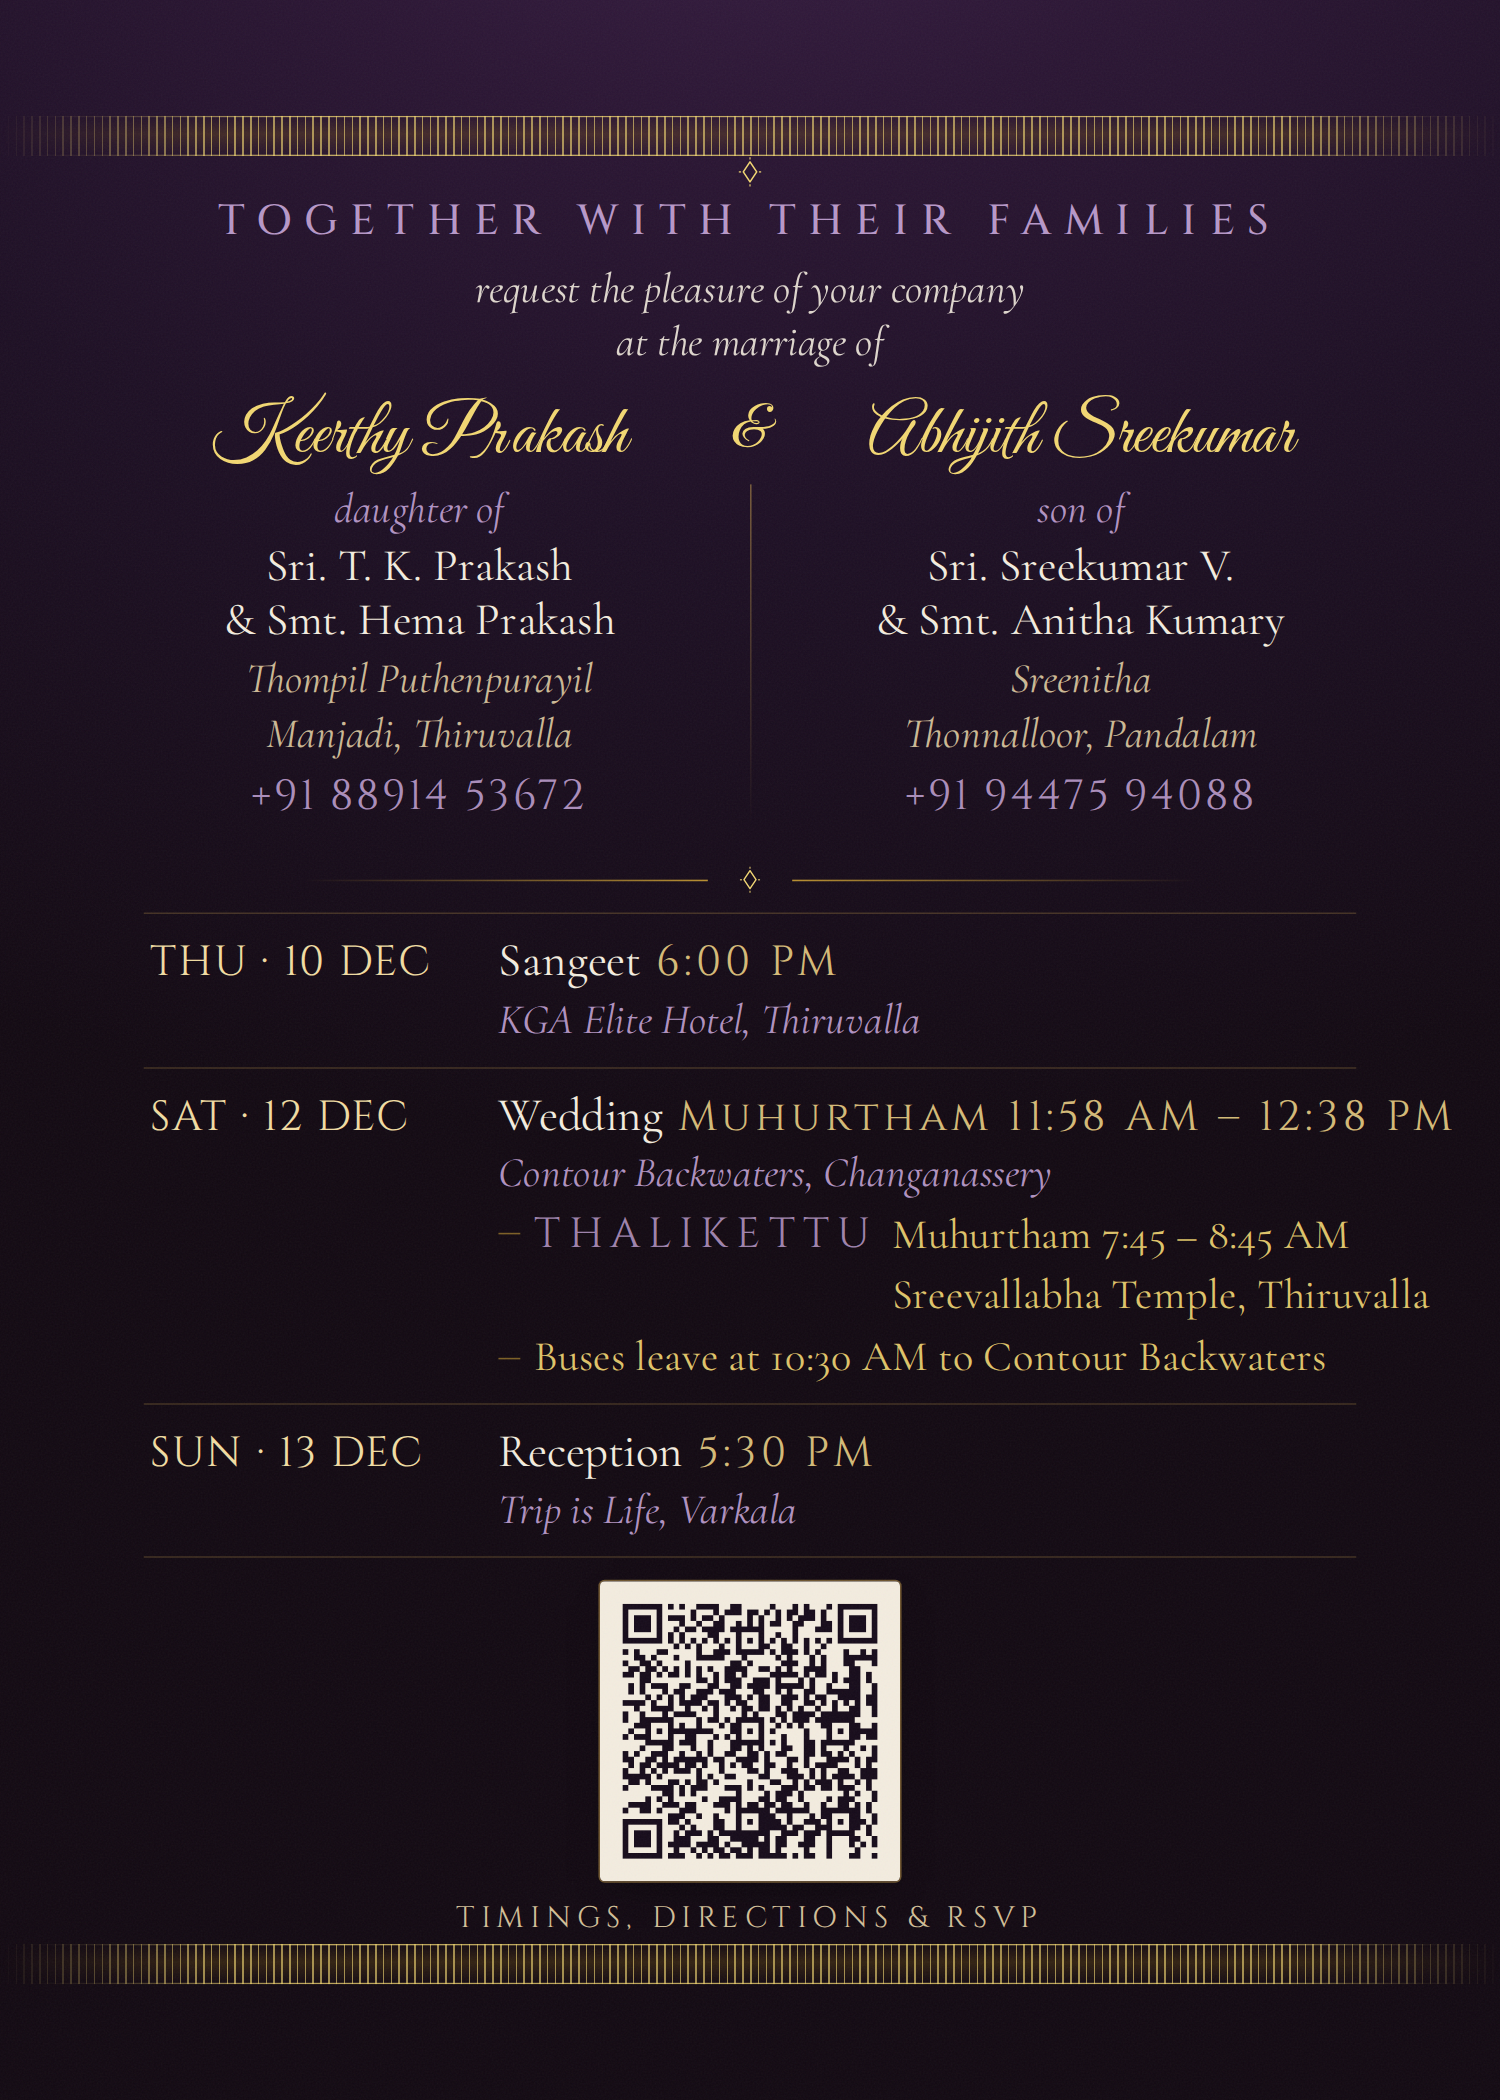
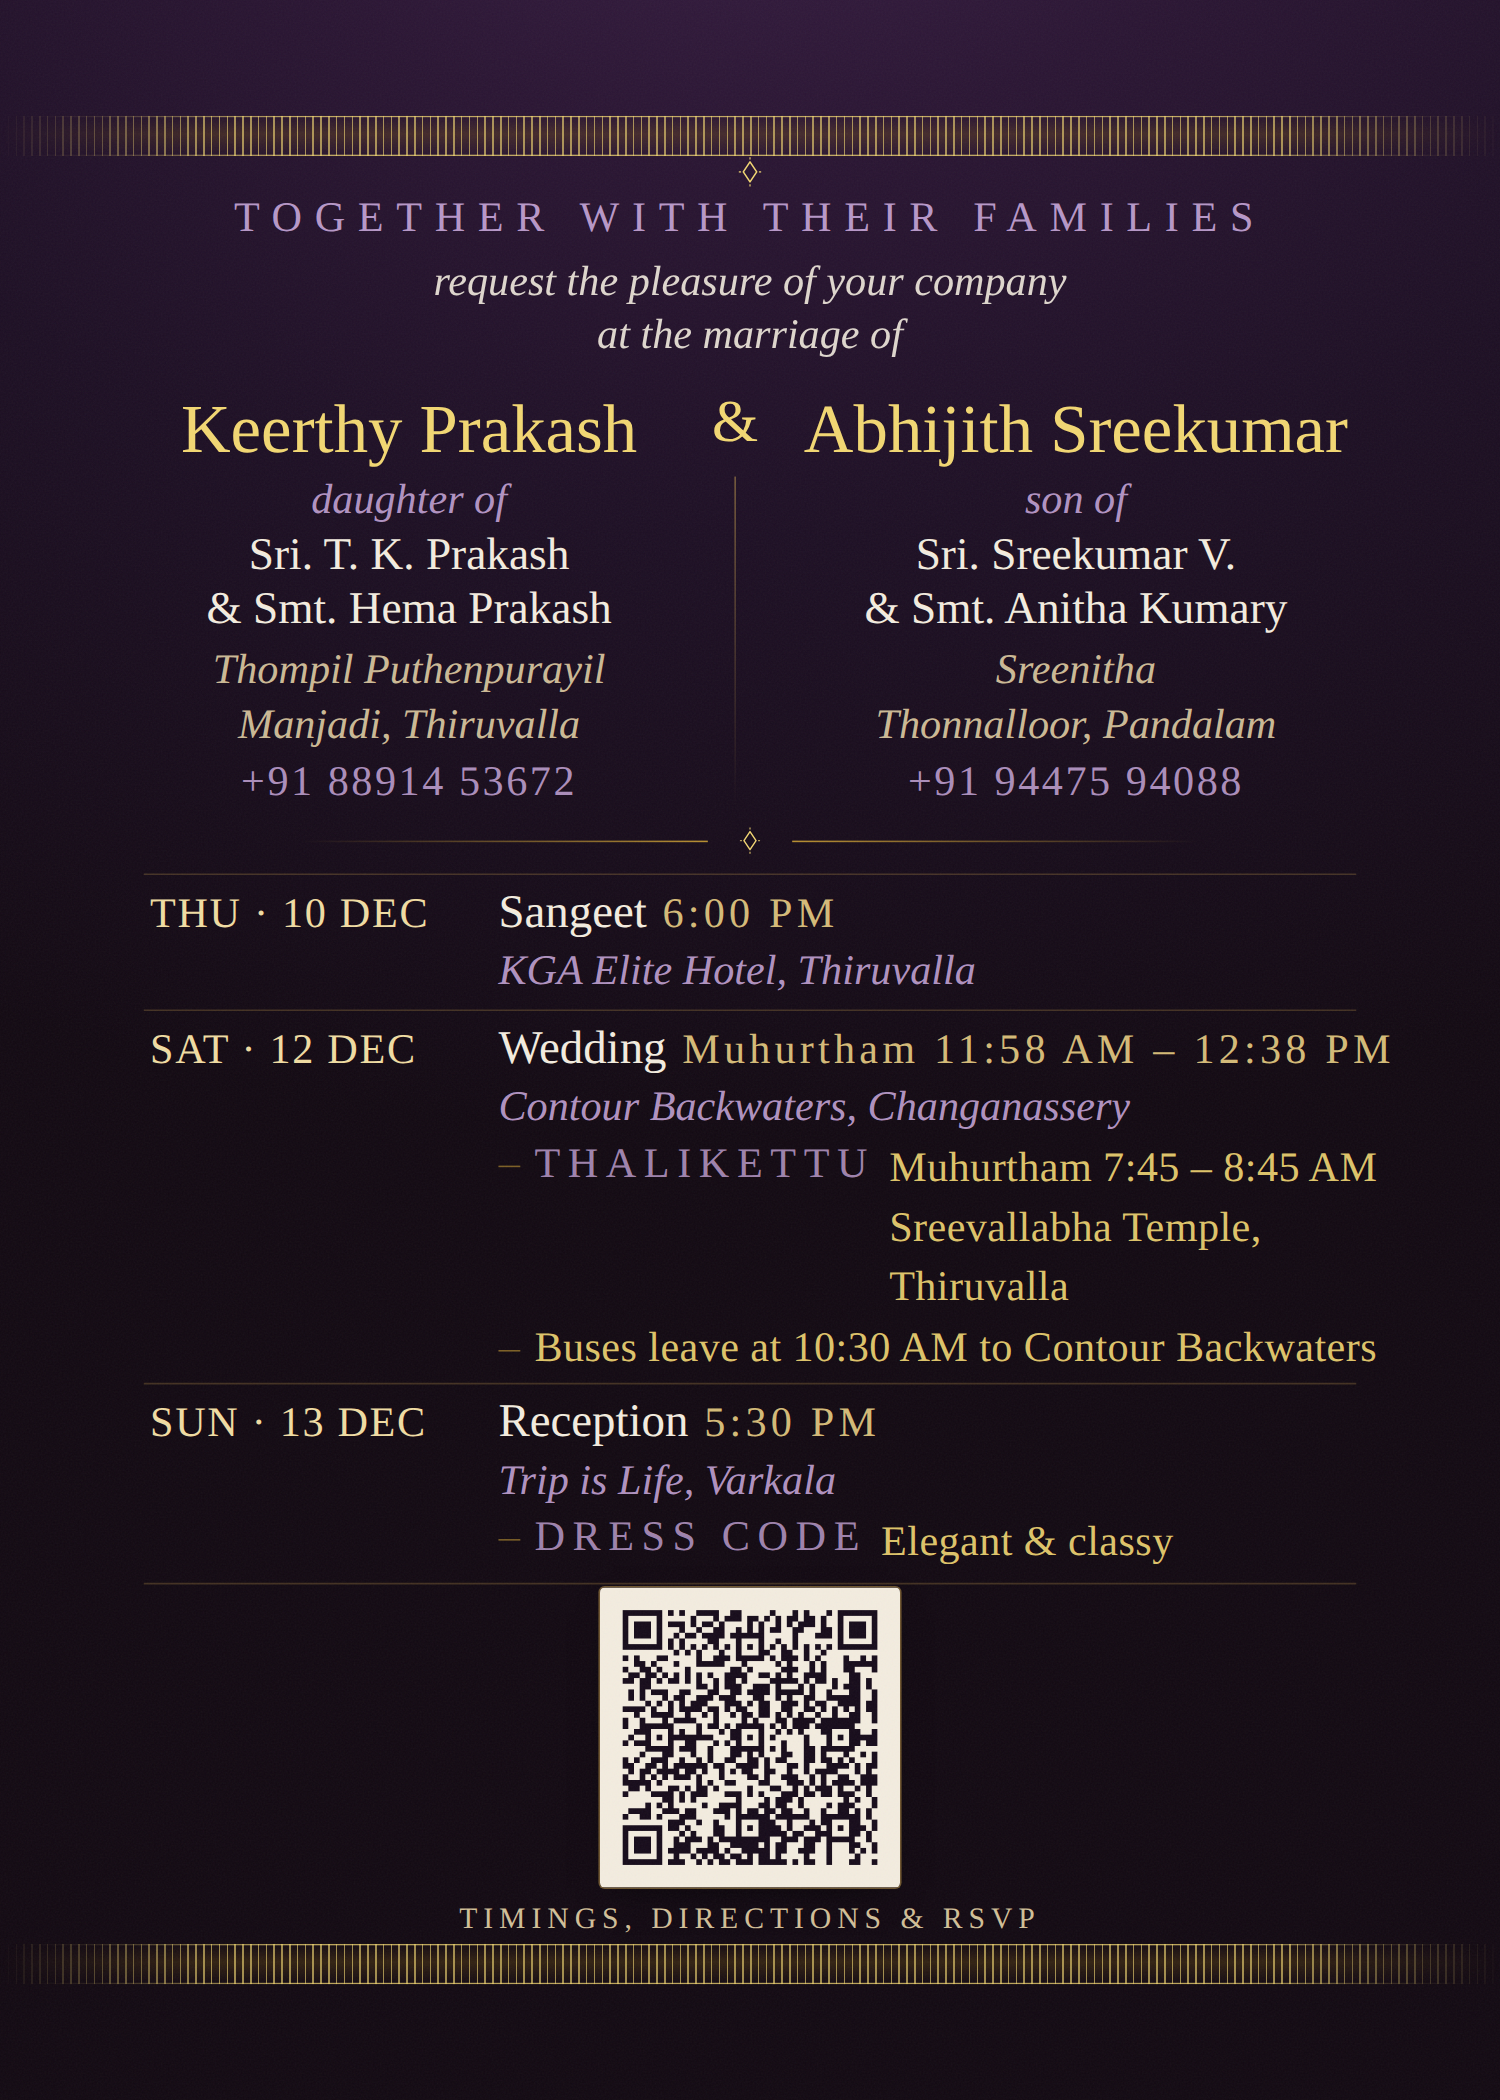
Add 'Elegant & classy' dress code to the 13 Dec reception on the all-events card
Tightened event-row padding so the card back still fits.

Claude-Session: https://claude.ai/code/session_012pFxEjz9cYnGRy7QnpZyzw

diff --git a/invitation/card-back.css b/invitation/card-back.css
@@ -128,8 +128,9 @@
   column-gap: 18px;
   text-align: left;
   /* tightened when the Thalikettu note went in: three event rows each
-     carrying two sub-lines put the stack 22px over the card */
-  padding: 13px 4px 13px;
+     carrying two sub-lines put the stack 22px over the card; tightened again
+     for the reception's dress-code note */
+  padding: 7px 4px 7px;
   border-bottom: 0.75px solid rgba(203, 162, 77, 0.26);
 }
 .ev:first-child {

diff --git a/invitation/card-back-all.html b/invitation/card-back-all.html
@@ -81,6 +81,10 @@
           <span>
             <span class="what">Reception<span class="time">5:30 PM</span></span>
             <span class="venue">Trip is Life, Varkala</span>
+            <div class="evnote">
+              <span class="n-head">Dress code</span>
+              <span class="n-body">Elegant &amp; classy</span>
+            </div>
           </span>
         </div>
       </div>
